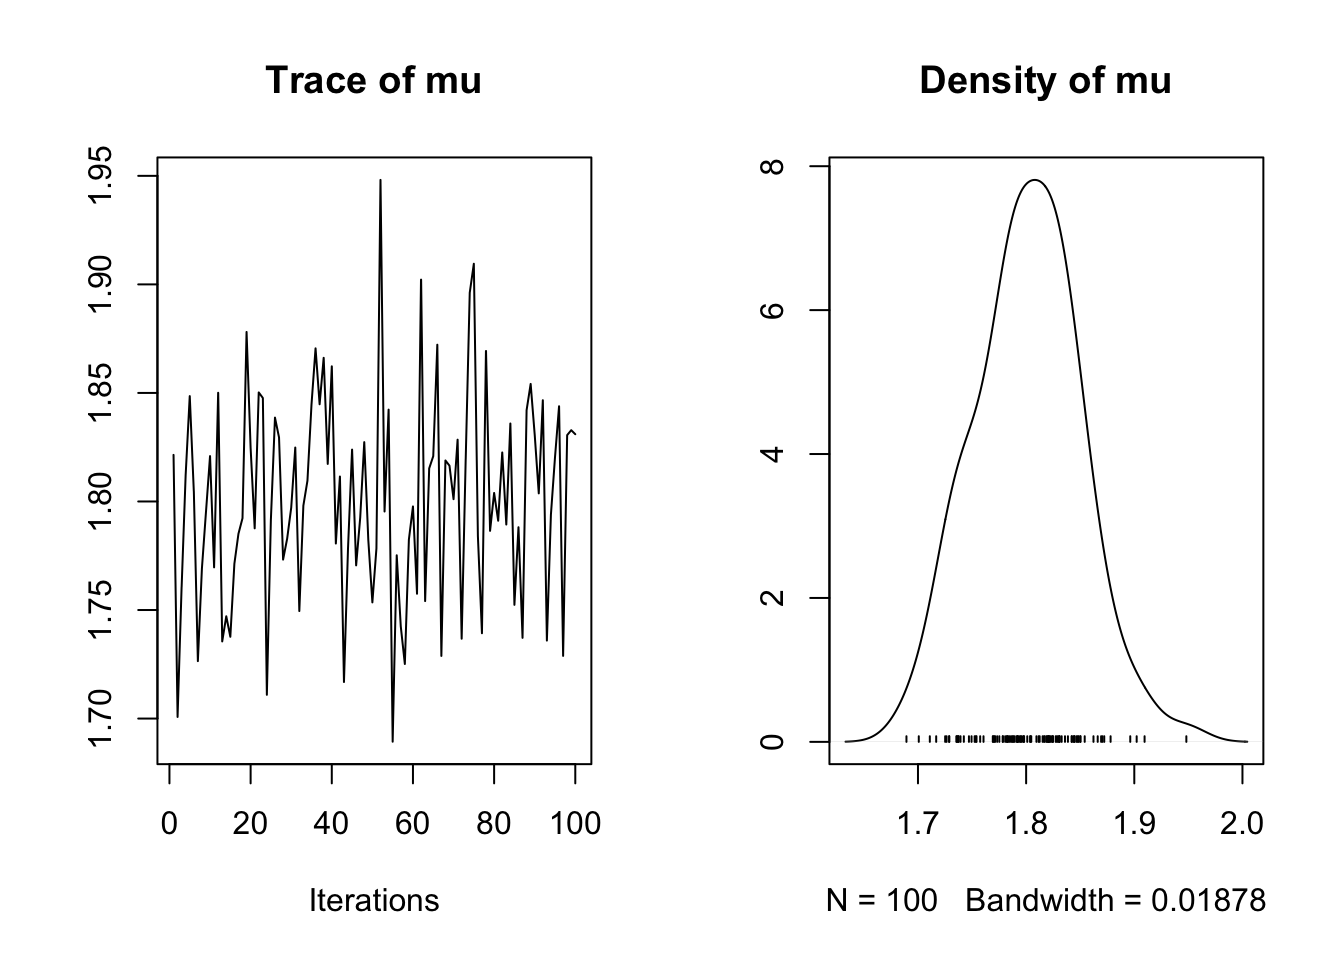
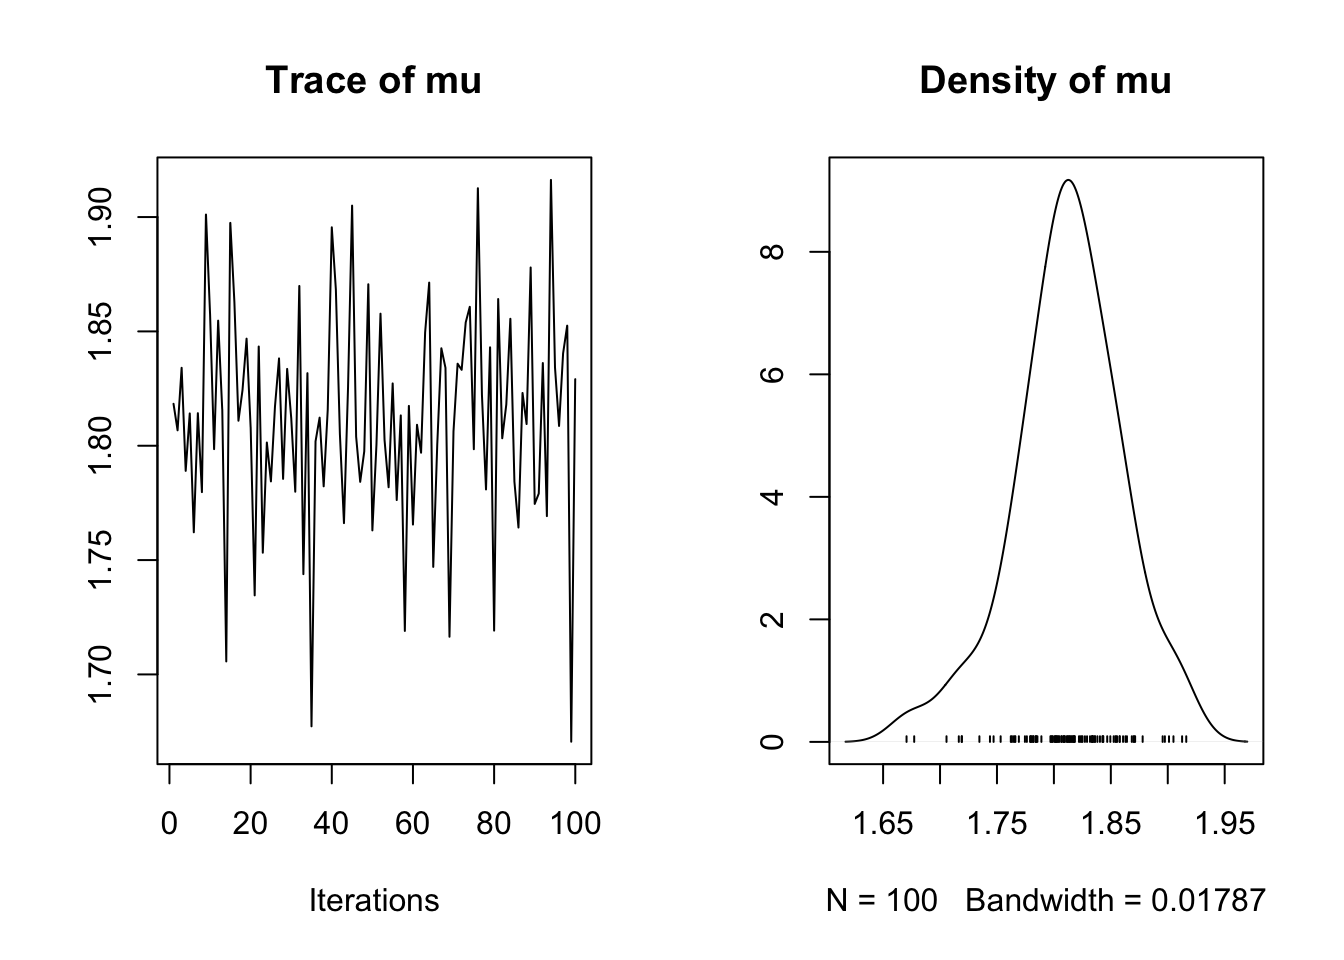
Fixed missing link to antibiotic data.

diff --git a/docs/VB_Bayes_activity2.html b/docs/VB_Bayes_activity2.html
@@ -451,12 +451,12 @@ window.Quarto = {
 <div class="sourceCode cell-code" id="cb30"><pre class="sourceCode r code-with-copy"><code class="sourceCode r"><span id="cb30-1"><a href="#cb30-1" aria-hidden="true" tabindex="-1"></a><span class="fu">head</span>(mcmc.out)</span></code><button title="Copy to Clipboard" class="code-copy-button"><i class="bi"></i></button></pre></div>
 <div class="cell-output cell-output-stdout">
 <pre><code>           mu
-[1,] 1.821460
-[2,] 1.700746
-[3,] 1.760594
-[4,] 1.812498
-[5,] 1.848534
-[6,] 1.804735</code></pre>
+[1,] 1.818341
+[2,] 1.806746
+[3,] 1.834076
+[4,] 1.789016
+[5,] 1.814129
+[6,] 1.762154</code></pre>
 </div>
 </div>
 <div class="cell" data-layout-align="center">
@@ -527,12 +527,12 @@ window.Quarto = {
 <div class="sourceCode cell-code" id="cb47"><pre class="sourceCode r code-with-copy"><code class="sourceCode r"><span id="cb47-1"><a href="#cb47-1" aria-hidden="true" tabindex="-1"></a><span class="fu">head</span>(mcmc.out<span class="sc">$</span>chain1)</span></code><button title="Copy to Clipboard" class="code-copy-button"><i class="bi"></i></button></pre></div>
 <div class="cell-output cell-output-stdout">
 <pre><code>           mu
-[1,] 1.754681
-[2,] 1.837273
-[3,] 1.731659
-[4,] 1.813269
-[5,] 1.851546
-[6,] 1.878681</code></pre>
+[1,] 1.762610
+[2,] 1.859333
+[3,] 1.700147
+[4,] 1.863679
+[5,] 1.759809
+[6,] 1.783781</code></pre>
 </div>
 </div>
 <div class="cell" data-layout-align="center">
@@ -573,12 +573,12 @@ Sample size per chain = 10000
    plus standard error of the mean:
 
           Mean             SD       Naive SE Time-series SE 
-     1.8047781      0.0523516      0.0005235      0.0005235 
+     1.8044403      0.0528591      0.0005286      0.0005286 
 
 2. Quantiles for each variable:
 
  2.5%   25%   50%   75% 97.5% 
-1.702 1.769 1.805 1.839 1.908 </code></pre>
+1.700 1.769 1.804 1.840 1.907 </code></pre>
 </div>
 </div>
 <p>Let’s compare these draws to what we got with our analytic solution:</p>
@@ -733,13 +733,13 @@ Sample size per chain = 10000
 </div>
 <div class="sourceCode cell-code" id="cb79"><pre class="sourceCode r code-with-copy"><code class="sourceCode r"><span id="cb79-1"><a href="#cb79-1" aria-hidden="true" tabindex="-1"></a><span class="fu">head</span>(mcmc.out2<span class="sc">$</span>chain1)</span></code><button title="Copy to Clipboard" class="code-copy-button"><i class="bi"></i></button></pre></div>
 <div class="cell-output cell-output-stdout">
-<pre><code>           mu         s2      tau
-[1,] 1.846827 0.09009858 11.09895
-[2,] 1.824490 0.09009858 11.09895
-[3,] 1.824490 0.09009858 11.09895
-[4,] 1.824490 0.04563801 21.91156
-[5,] 1.824490 0.02261031 44.22760
-[6,] 1.824490 0.02413784 41.42872</code></pre>
+<pre><code>           mu          s2       tau
+[1,] 1.794953 0.012233658  81.74170
+[2,] 1.758111 0.012233658  81.74170
+[3,] 1.794661 0.012233658  81.74170
+[4,] 1.794661 0.009709681 102.99000
+[5,] 1.794661 0.024846288  40.24746
+[6,] 1.794661 0.024846288  40.24746</code></pre>
 </div>
 <div class="sourceCode cell-code" id="cb81"><pre class="sourceCode r code-with-copy"><code class="sourceCode r"><span id="cb81-1"><a href="#cb81-1" aria-hidden="true" tabindex="-1"></a>samp2<span class="ot">&lt;-</span><span class="fu">as.mcmc</span>(mcmc.out2<span class="sc">$</span>chain1)</span></code><button title="Copy to Clipboard" class="code-copy-button"><i class="bi"></i></button></pre></div>
 </div>
@@ -766,16 +766,16 @@ Sample size per chain = 10000
    plus standard error of the mean:
 
         Mean       SD  Naive SE Time-series SE
-mu   1.80616  0.05287 0.0005287      0.0011614
-s2   0.02581  0.01922 0.0001922      0.0004643
-tau 52.23734 26.46940 0.2646940      0.6688991
+mu   1.80621  0.05220 0.0005220      0.0012089
+s2   0.02539  0.01737 0.0001737      0.0003839
+tau 52.04239 25.42635 0.2542635      0.6078854
 
 2. Quantiles for each variable:
 
          2.5%      25%      50%      75%     97.5%
-mu   1.702853  1.77373  1.80462  1.83893   1.91530
-s2   0.008582  0.01473  0.02117  0.03106   0.07154
-tau 13.978154 32.19683 47.23888 67.88570 116.52918</code></pre>
+mu   1.699485  1.77526  1.80658  1.83650   1.91095
+s2   0.009078  0.01488  0.02099  0.03033   0.07062
+tau 14.160868 32.96990 47.64151 67.20633 110.15611</code></pre>
 </div>
 </div>
 <p>Now we plot each with their priors:</p>

diff --git a/docs/Stats_review.html b/docs/Stats_review.html
@@ -329,7 +329,7 @@ window.Quarto = {
 <li>discrete (numbers of items or successes)</li>
 <li>continuous (heights, times, weights)</li>
 </ul>
-<p>We usually use capital letters – e.g.&nbsp;<span class="math inline">X</span>, <span class="math inline">Y</span>, sometimes with bold or with subscripts – to denote the RVs. In contrast we use lower case letters, e.g.&nbsp;<span class="math inline">x</span>, <span class="math inline">y</span>, <span class="math inline">k</span>, to denote the values that the RV takes. For instance, lets say that the heights of the woman at Virginia Tech are the RV, <span class="math inline">X</span>, and <span class="math inline">X</span> has a normal distribution with mean 62 inches and variance 6<span class="math inline">^2</span>, i.e., <span class="math inline">X \sim \mathrm{N}(62,6^2)</span> distribution. Say we then observe the heights of 3 individuals drawn from this distribution – we would write this as: <span class="math inline">x=(</span> 58.6, 59.2, 63.1 <span class="math inline">)</span>.</p>
+<p>We usually use capital letters – e.g.&nbsp;<span class="math inline">X</span>, <span class="math inline">Y</span>, sometimes with bold or with subscripts – to denote the RVs. In contrast we use lower case letters, e.g.&nbsp;<span class="math inline">x</span>, <span class="math inline">y</span>, <span class="math inline">k</span>, to denote the values that the RV takes. For instance, lets say that the heights of the woman at Virginia Tech are the RV, <span class="math inline">X</span>, and <span class="math inline">X</span> has a normal distribution with mean 62 inches and variance 6<span class="math inline">^2</span>, i.e., <span class="math inline">X \sim \mathrm{N}(62,6^2)</span> distribution. Say we then observe the heights of 3 individuals drawn from this distribution – we would write this as: <span class="math inline">x=(</span> 70.2, 60.4, 62.3 <span class="math inline">)</span>.</p>
 <p><br> <br> </p>
 </section>
 <section id="probability-distributions" class="level1">
@@ -553,7 +553,7 @@ f(x)=\frac{1}{\sqrt{2\pi\sigma^2}}\exp{\left(-\frac{(x-\mu)^2}{2\sigma^2}\right)
 <div class="cell">
 <div class="sourceCode cell-code" id="cb3"><pre class="sourceCode r code-with-copy"><code class="sourceCode r"><span id="cb3-1"><a href="#cb3-1" aria-hidden="true" tabindex="-1"></a><span class="fu">rnorm</span>(<span class="dv">3</span>, <span class="at">mean=</span><span class="dv">0</span>, <span class="at">sd=</span><span class="dv">1</span>) <span class="do">## random draws</span></span></code><button title="Copy to Clipboard" class="code-copy-button"><i class="bi"></i></button></pre></div>
 <div class="cell-output cell-output-stdout">
-<pre><code>[1] -0.9173400  0.1573646  1.6056632</code></pre>
+<pre><code>[1]  0.9374739 -0.7837381  0.9755035</code></pre>
 </div>
 </div>
 <div class="cell">
